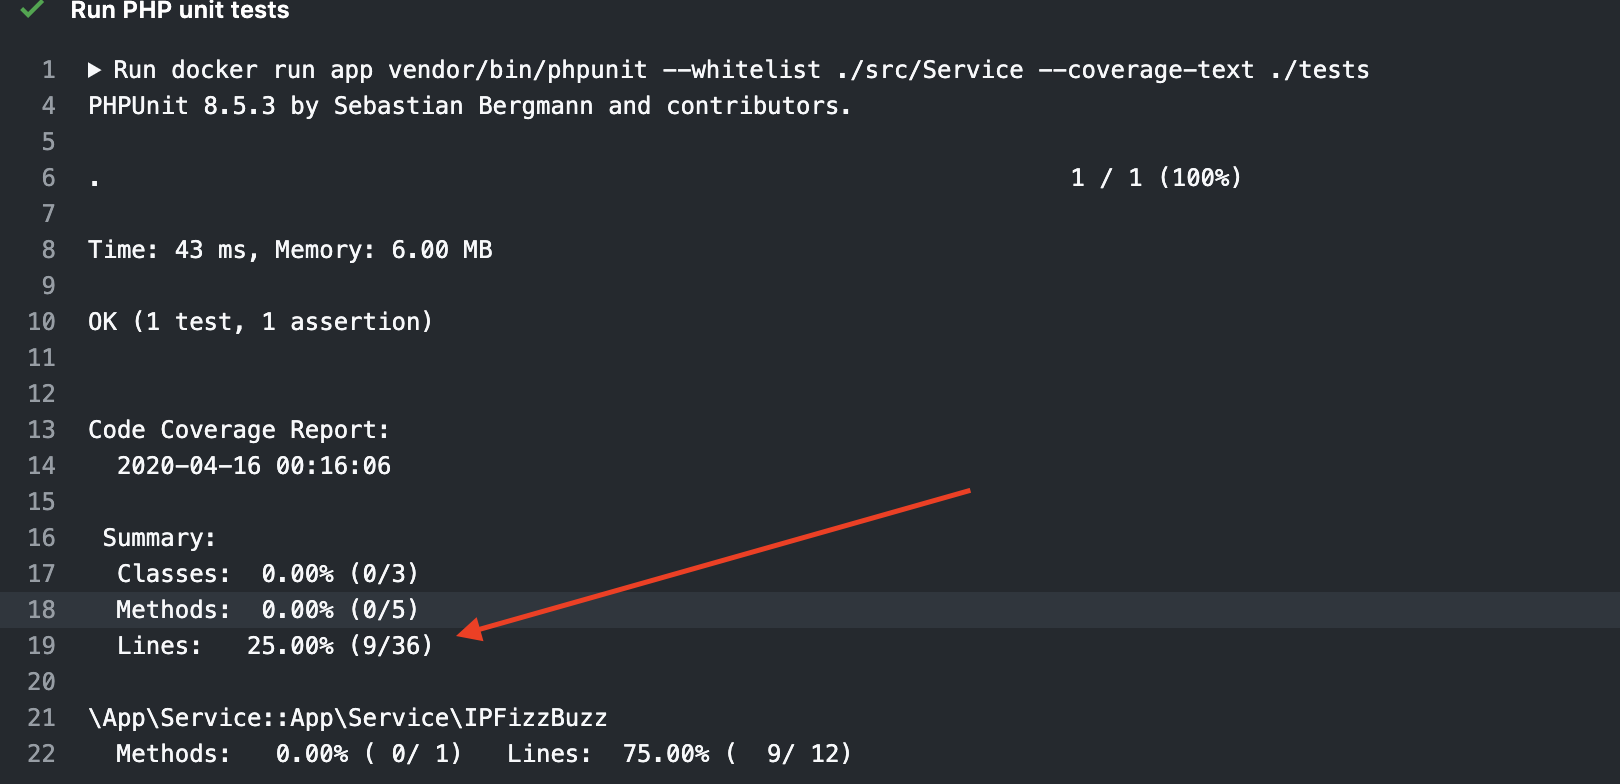
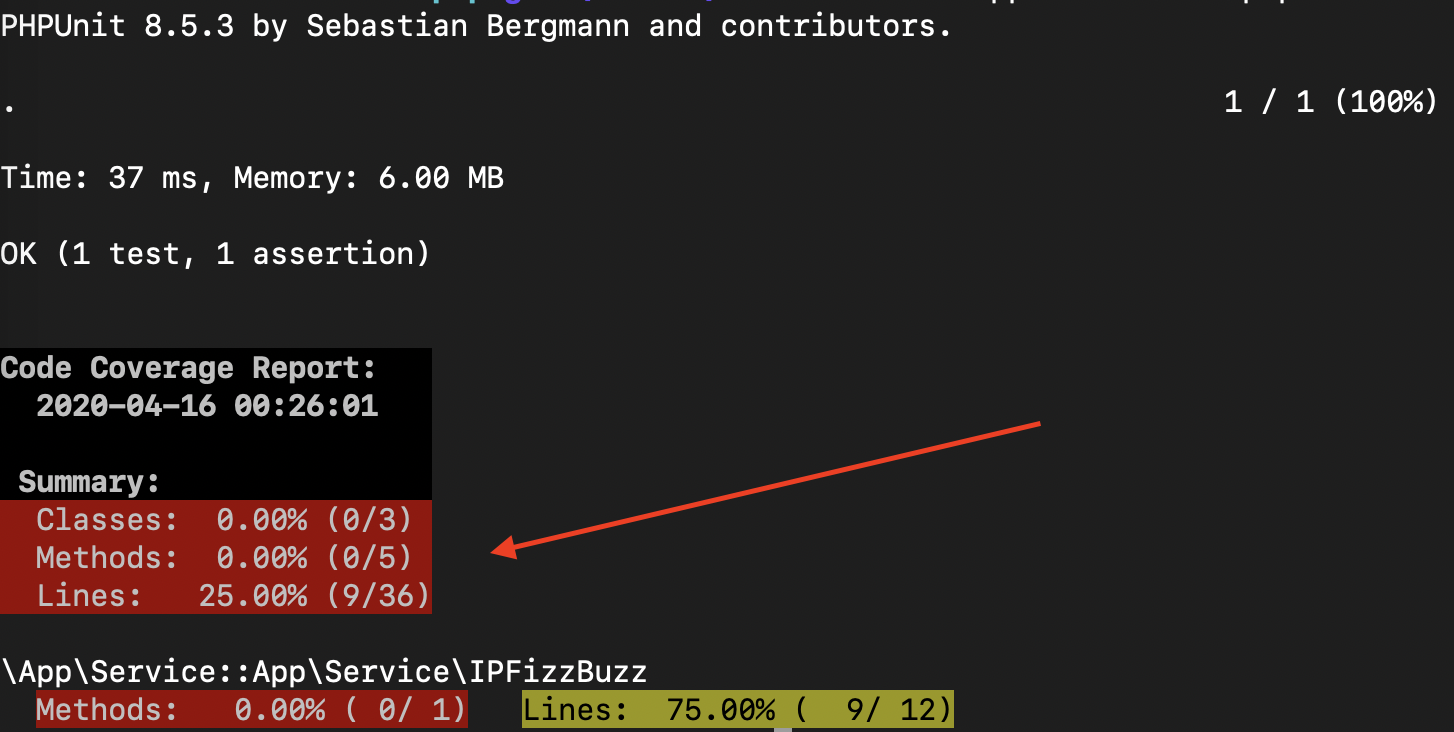
Update image on readme

diff --git a/README.md b/README.md
@@ -18,3 +18,9 @@ Cada teste cobre partes das suas classes `App\Service`, o objetivo seria chegar 
 
 ![](./coverage.png)
 
+Se você quiser rodar o projeto e ver cobertura na sua maquina local, o modo mais fácil é via docker. 
+
+```
+docker build . -t app 
+docker run app vendor/bin/phpunit --whitelist ./src/Service --coverage-text --colors ./tests
+```
